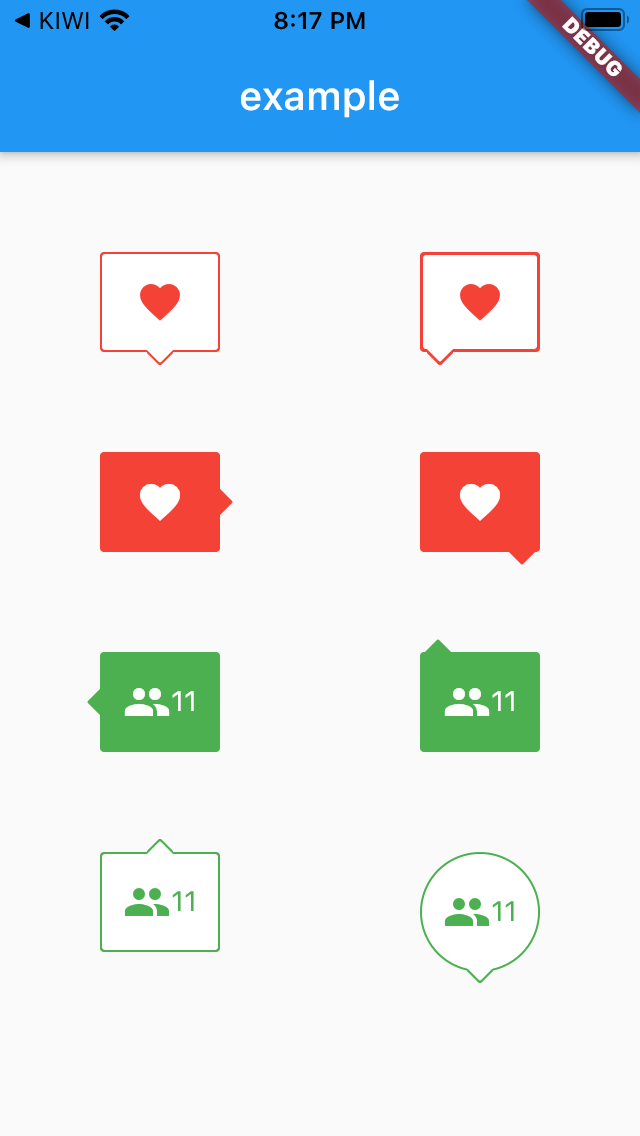
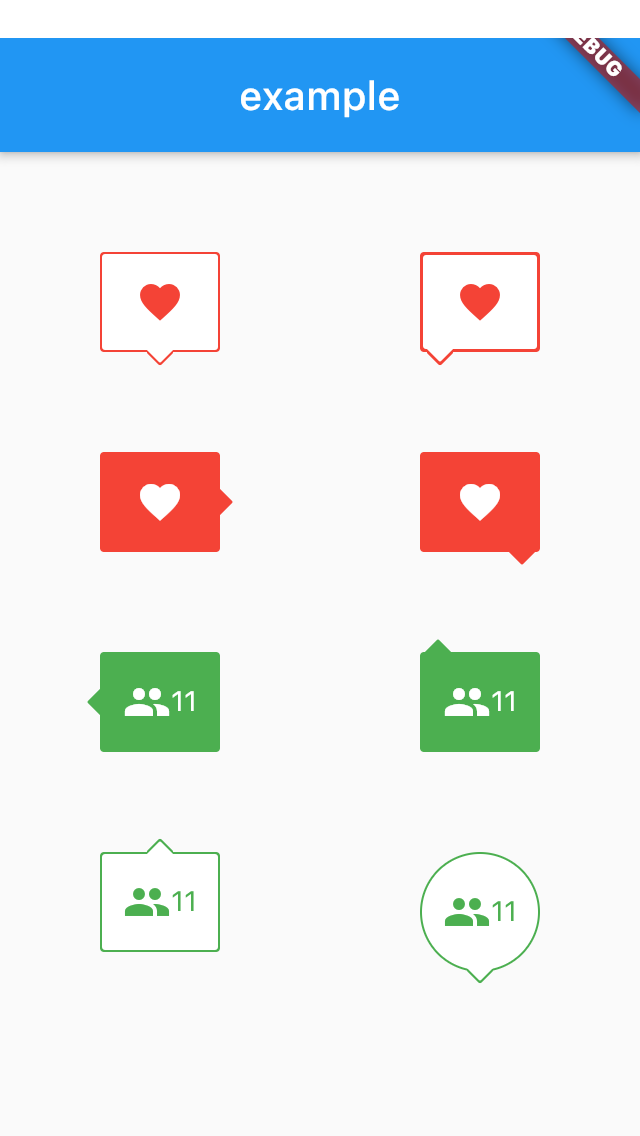
fix

Changed region(s): [[0.0, 0.0, 1.0, 0.0308]]

diff --git a/README.md b/README.md
@@ -1,6 +1,4 @@
 # speech_balloon
-=======
-# speech_balloon
 
 A flutter widget that emulates a speech balloon.
 
@@ -47,7 +45,7 @@ Creates a widget that emulates a speech balloon.
 Could be used for a tooltip, or as a pop-up notification, etc.
 
 <div class="center">
-    <img width="359" height="693" src="screenshots/example1.png">
+    <img width="350" height="532.5" src="screenshots/example1.png">
   </div>
 
 
